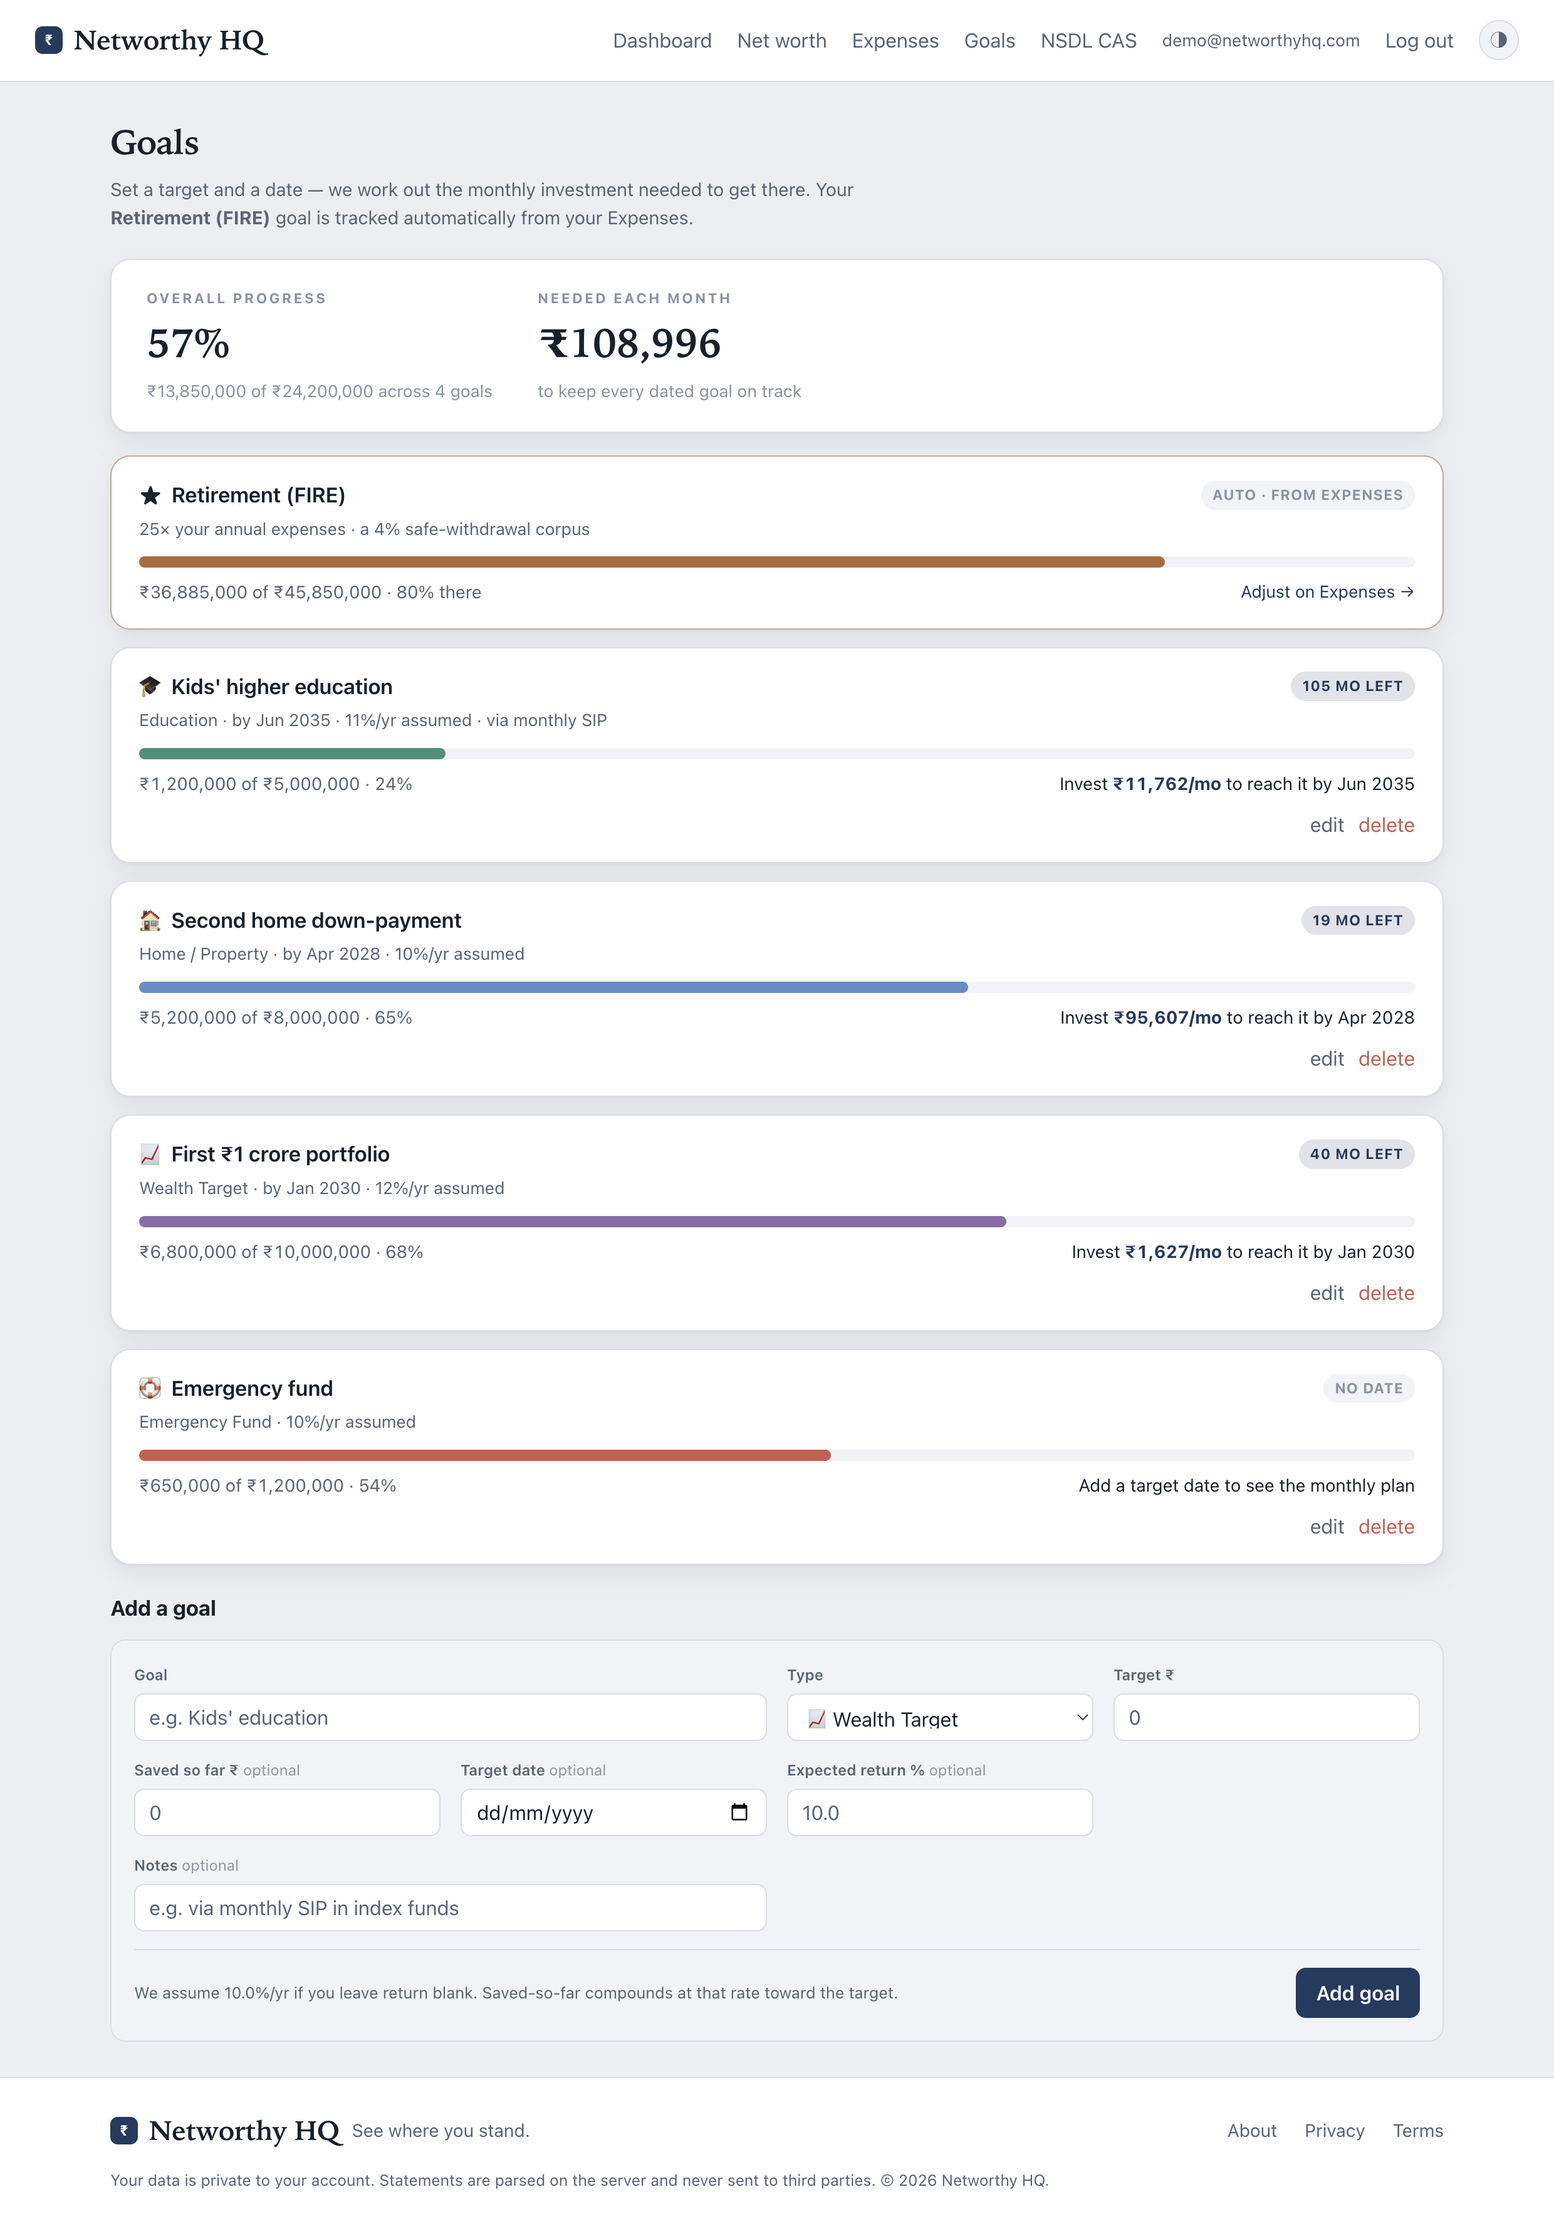
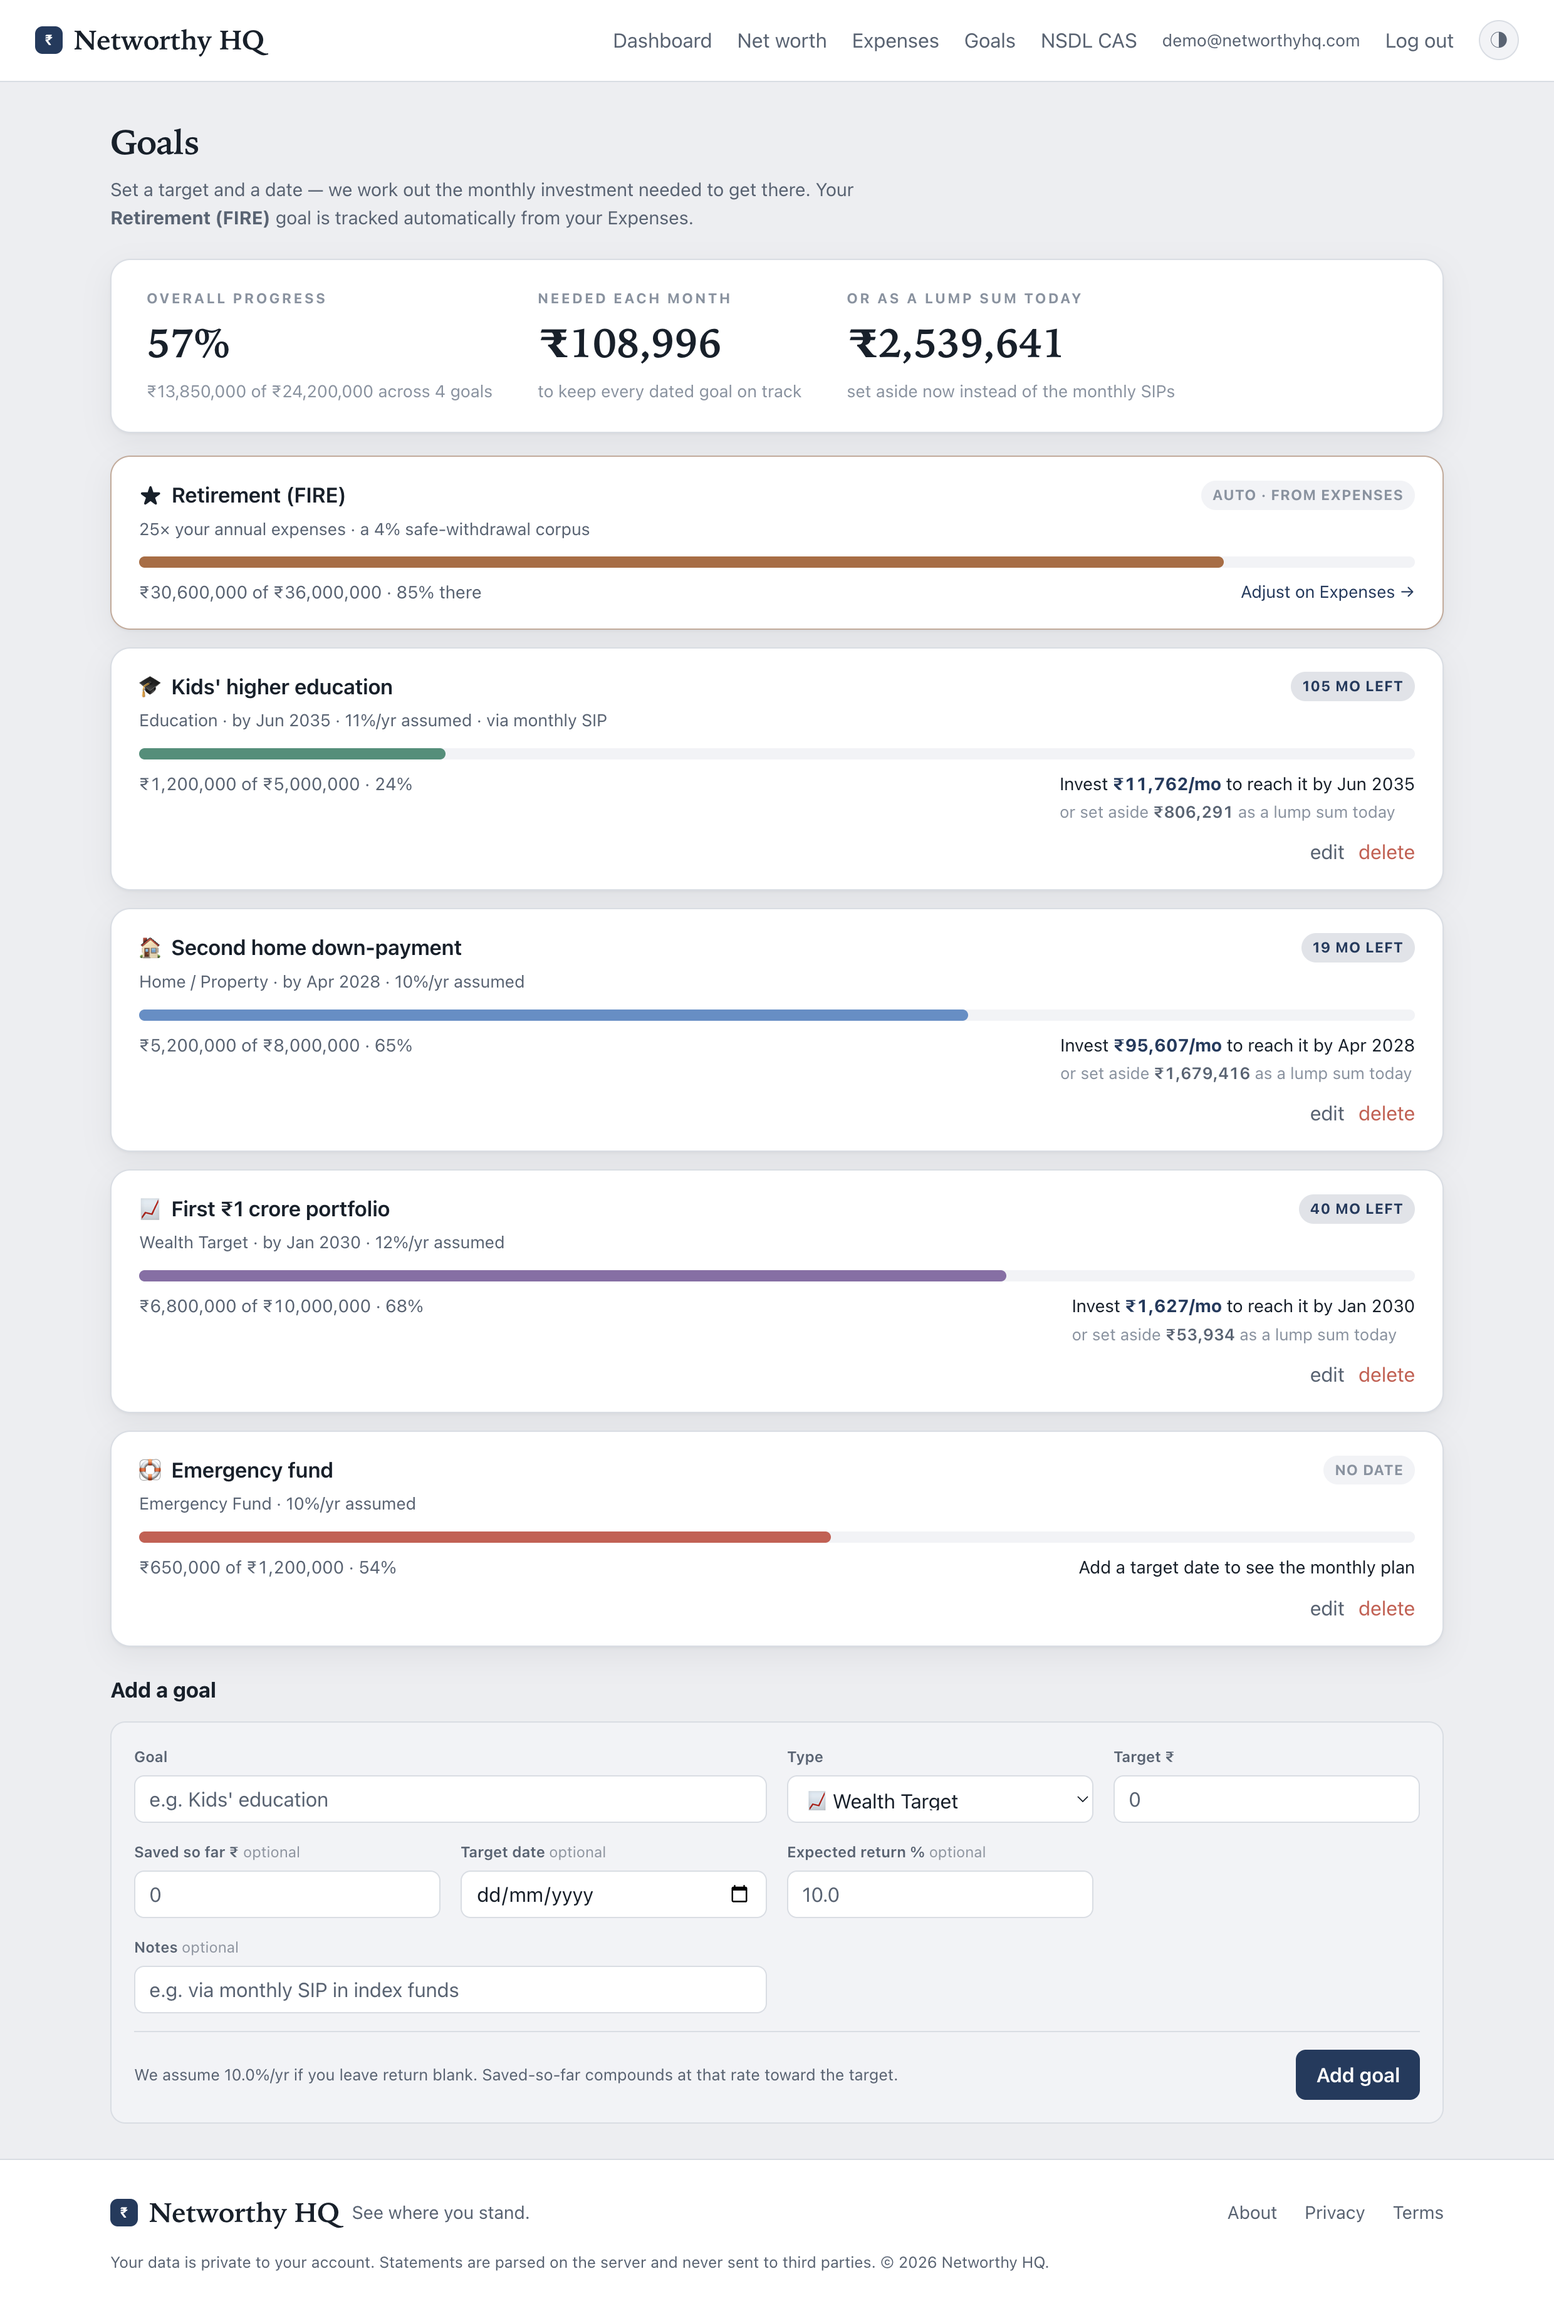
Goals: show the lump-sum-today alternative to each monthly SIP
Alongside "invest ₹X/mo", each dated goal now shows the one-time amount that,
compounding at the same rate, closes the same funding gap today
(required_lumpsum = gap / (1+r)^n) — the "carve it out of savings now" option.
The summary totals both across dated goals. funded/overdue/undated follow the
same rules as the SIP (0 / None / None).

test_goals.py adds the lump-sum contract (compounds back to the gap; a single
lump sum is a smaller outlay than the summed SIPs). Regenerated the goals
screenshot in the README.

diff --git a/app/templates/goals.html b/app/templates/goals.html
@@ -26,6 +26,11 @@
     <span class="gs-figure num">₹{{ "{:,.0f}".format(total_monthly) }}</span>
     <span class="hero-note">to keep every dated goal on track</span>
   </div>
+  <div class="gs-stat">
+    <span class="eyebrow">Or as a lump sum today</span>
+    <span class="gs-figure num">₹{{ "{:,.0f}".format(total_lumpsum) }}</span>
+    <span class="hero-note">set aside now instead of the monthly SIPs</span>
+  </div>
   {% endif %}
 </section>
 {% endif %}
@@ -73,6 +78,7 @@
     <span class="goal-sip">
       {% if g.status == 'active' %}
         Invest <strong>₹{{ "{:,.0f}".format(g.required_monthly) }}/mo</strong>{% if g.target_fmt %} to reach it by {{ g.target_fmt }}{% endif %}
+        <span class="goal-alt">or set aside <strong>₹{{ "{:,.0f}".format(g.required_lumpsum) }}</strong> as a lump sum today</span>
       {% elif g.status == 'funded' %}
         On track — projected to reach the target with no new investment
       {% elif g.status == 'overdue' %}

diff --git a/app/static/style.css b/app/static/style.css
@@ -831,6 +831,9 @@ a.cta-tile:hover { filter: brightness(1.06); border: none; }
 .goal-foot { display: flex; flex-wrap: wrap; justify-content: space-between; gap: 6px 18px; margin-top: 9px; font-size: 0.88rem; color: var(--muted); font-variant-numeric: tabular-nums; }
 .goal-sip { color: var(--text); }
 .goal-sip strong { color: var(--brand); font-variant-numeric: tabular-nums; }
+/* The lump-sum alternative sits under the SIP line, quieter. */
+.goal-alt { display: block; margin-top: 2px; font-size: 0.82rem; color: var(--faint); }
+.goal-alt strong { color: var(--muted); font-weight: 600; }
 .goal-link { margin-left: auto; color: var(--brand); font-size: 0.85rem; text-decoration: none; white-space: nowrap; }
 .goal-link:hover { text-decoration: underline; }
 .goal-actions { margin-top: 10px; }

diff --git a/app/goals.py b/app/goals.py
@@ -78,10 +78,12 @@ def plan(
     Returns a dict with: progress_pct (saved vs target, nominal), months_left,
     projected (what `saved` grows to by the date at the expected return),
     required_monthly (the SIP that closes the remaining gap; None if the date has
-    passed and it isn't already funded), and a status string:
+    passed and it isn't already funded), required_lumpsum (a one-time amount today
+    that, compounding at the same rate, closes the same gap — the "set it aside now"
+    alternative to the SIP; same None/0 rules as the SIP), and a status string:
 
       funded   — projected savings alone reach the target (no new investment needed)
-      active   — on the way; contribute `required_monthly` to land on time
+      active   — on the way; contribute `required_monthly` (or `required_lumpsum` now)
       overdue  — target date has passed and it isn't funded
       undated  — no target date, so we can only show progress (no SIP)
     """
@@ -96,7 +98,7 @@ def plan(
     if target_date is None:
         return {
             "progress_pct": progress_pct, "months_left": None, "projected": saved,
-            "required_monthly": None, "status": "undated",
+            "required_monthly": None, "required_lumpsum": None, "status": "undated",
         }
 
     n = _months_between(today, target_date)
@@ -104,17 +106,20 @@ def plan(
     gap = target - projected
 
     if gap <= 0:
-        status, required = "funded", 0.0
+        status, required, lumpsum = "funded", 0.0, 0.0
     elif n <= 0:
-        status, required = "overdue", None  # date gone, can't SIP into the past
-    elif monthly_r == 0:
-        status, required = "active", gap / n
+        status, required, lumpsum = "overdue", None, None  # date gone, nothing to plan
     else:
-        # Future value of an ordinary annuity: gap = SIP · ((1+r)^n − 1) / r.
         status = "active"
-        required = gap * monthly_r / (((1.0 + monthly_r) ** n) - 1.0)
+        if monthly_r == 0:
+            required = gap / n
+        else:
+            # Future value of an ordinary annuity: gap = SIP · ((1+r)^n − 1) / r.
+            required = gap * monthly_r / (((1.0 + monthly_r) ** n) - 1.0)
+        # One-time amount today that compounds to the gap: L · (1+r)^n = gap.
+        lumpsum = gap / ((1.0 + monthly_r) ** n)
 
     return {
         "progress_pct": progress_pct, "months_left": n, "projected": projected,
-        "required_monthly": required, "status": status,
+        "required_monthly": required, "required_lumpsum": lumpsum, "status": status,
     }

diff --git a/tests/test_goals.py b/tests/test_goals.py
@@ -26,20 +26,33 @@ def test_plan_required_monthly_matches_annuity_formula():
     assert p["required_monthly"] == pytest.approx(100_000.0)   # 1.2L / 12 months, no return
 
 
+def test_plan_lumpsum_compounds_to_close_the_gap():
+    # A one-time lump sum today, grown at the rate, should equal the funding gap.
+    p = goals.plan(5_000_000, 800_000, date(2035, 6, 1), 11.0, today=date(2026, 8, 5))
+    gap = p["projected"] and (5_000_000 - p["projected"])
+    monthly_r = 1.11 ** (1 / 12) - 1
+    grown = p["required_lumpsum"] * (1 + monthly_r) ** p["months_left"]
+    assert grown == pytest.approx(gap, rel=1e-6)
+    # And a single lump sum is a smaller total outlay than summing every SIP.
+    assert p["required_lumpsum"] < p["required_monthly"] * p["months_left"]
+
+
 def test_plan_funded_when_projection_reaches_target():
     p = goals.plan(1_000_000, 950_000, date(2028, 8, 5), 12.0, today=date(2026, 8, 5))
-    assert p["status"] == "funded" and p["required_monthly"] == 0.0
+    assert p["status"] == "funded"
+    assert p["required_monthly"] == 0.0 and p["required_lumpsum"] == 0.0
 
 
 def test_plan_undated_goal_has_no_sip():
     p = goals.plan(1_000_000, 100_000, None, 10.0, today=date(2026, 8, 5))
     assert p["status"] == "undated" and p["required_monthly"] is None
-    assert p["months_left"] is None
+    assert p["required_lumpsum"] is None and p["months_left"] is None
 
 
 def test_plan_overdue_when_date_passed_and_short():
     p = goals.plan(1_000_000, 100_000, date(2025, 1, 1), 10.0, today=date(2026, 8, 5))
-    assert p["status"] == "overdue" and p["required_monthly"] is None
+    assert p["status"] == "overdue"
+    assert p["required_monthly"] is None and p["required_lumpsum"] is None
 
 
 def test_months_between():

diff --git a/app/main.py b/app/main.py
@@ -1403,7 +1403,7 @@ def goals_page(request: Request):
     user = request.state.user
     today = date.today()
     rows = storage.list_goals(user.id)
-    total_target = total_saved = total_monthly = 0.0
+    total_target = total_saved = total_monthly = total_lumpsum = 0.0
     for g in rows:
         d = _parse_date(g["target_date"])
         p = goals.plan(g["target_amount"], g["saved_amount"], d, g["return_pct"], today)
@@ -1418,6 +1418,7 @@ def goals_page(request: Request):
         total_target += g["target_amount"] or 0.0
         total_saved += g["saved_amount"] or 0.0
         total_monthly += p["required_monthly"] or 0.0
+        total_lumpsum += p["required_lumpsum"] or 0.0
 
     # FIRE mirror (read-only): target = 25× annual burn, progress = live net worth.
     annual_burn = sum(
@@ -1449,6 +1450,7 @@ def goals_page(request: Request):
             "total_target": total_target,
             "total_saved": total_saved,
             "total_monthly": total_monthly,
+            "total_lumpsum": total_lumpsum,
             "overall_pct": (total_saved / total_target * 100.0) if total_target > 0 else 0.0,
             "edit_id": _opt_int(request.query_params.get("edit", "")),
             "today": today,

diff --git a/CLAUDE.md b/CLAUDE.md
@@ -145,9 +145,11 @@ upload PDF(s)  →  parse_cas()  →  Snapshot + Accounts/Holdings  →  SQLite 
   lens separate from the net-worth tree (own `goals` table). Each goal is a target amount + date +
   expected return + **saved-so-far** (hand-entered — we deliberately don't tag holdings to goals, which
   avoids double-counting one rupee across goals). `goals.plan()` is the core: it compounds saved-so-far
-  to the target date and returns the **required monthly SIP** (future-value-of-annuity) plus a status —
-  `funded` (projection alone reaches target), `active` (show the SIP), `overdue` (date passed, not
-  funded), `undated` (no date → progress only, no SIP). Return is stored per-goal as a percent
+  to the target date and returns the **required monthly SIP** (future-value-of-annuity) **and a
+  `required_lumpsum`** — the one-time amount today that, compounding at the same rate, closes the same
+  gap (`gap / (1+r)^n`; the "set it aside now" alternative to the SIP) — plus a status —
+  `funded` (projection alone reaches target), `active` (show the SIP + lump sum), `overdue` (date passed,
+  not funded), `undated` (no date → progress only). The summary also totals both across dated goals. Return is stored per-goal as a percent
   (`DEFAULT_RETURN_PCT` = 10 if blank). `CATEGORIES` gives each goal type a colour + icon. **Retirement
   is not stored** — it's mirrored **read-only** at the top of the list from the Expenses FIRE target
   (25× annual burn, progress = live net worth), so the burn has a single source of truth; the card links
